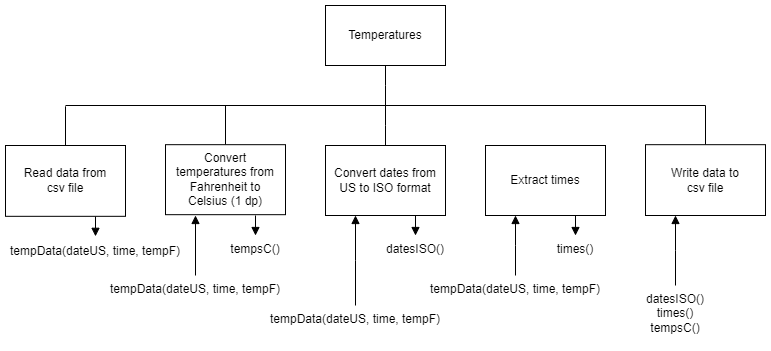
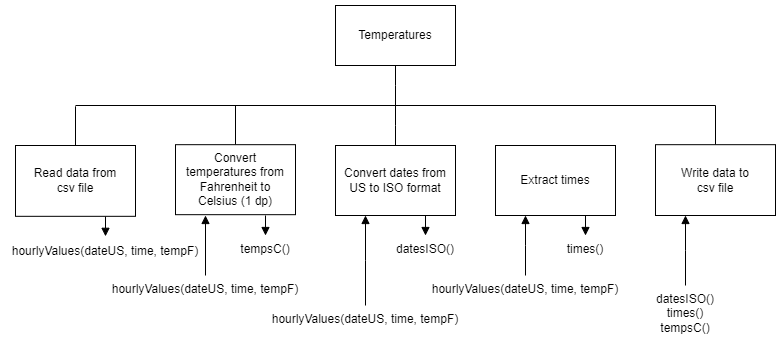
Updated

diff --git a/n5-cs/sdd/N5-SDD-TST/assets/solution.py b/n5-cs/sdd/N5-SDD-TST/assets/solution.py
@@ -1,6 +1,6 @@
 # Title: N5 SDD TST
 # Author: Mr Friend
-# Date: 24 Sep 2024
+# Date: 3 Sep 2024
 
 # Initalise variables
 noOfTours = 0
@@ -11,8 +11,13 @@ tourCosts = [0] * 4
 totalCost = 0
 averageCost = 0.0
 
+
+# Display header
+print("\n TST")
+print("-----\n")
+
 # Get valid number of tours
-while noOfTours <1 or noOfTours > 4:
+while noOfTours < 1 or noOfTours > 4:
     
     # Get number of tours
     noOfTours = int(input("Number of tours: "))
@@ -23,6 +28,7 @@ while noOfTours <1 or noOfTours > 4:
         # Error message
         print("\nInvalid:  Enter a value of 1 to 4")
 
+
 #Loop for each tour
 for index in range(noOfTours):
 
@@ -30,7 +36,7 @@ for index in range(noOfTours):
     while noOfPassengers < 1 or noOfPassengers > 5:
         
         # Get valid number of passengers
-        noOfPassengers = int(input("\nTour " +str(index+1) + " passengers: "))
+        noOfPassengers = int(input("\nNumber passengers on tour " +str(index+1) + ": "))
         
         # Check if valid
         if noOfPassengers < 1 or noOfPassengers > 5:
@@ -42,20 +48,20 @@ for index in range(noOfTours):
     for count in range(noOfPassengers):
     
         # Get valid passengers type
-        while passengerType != "adult" and  passengerType != "child":
+        while passengerType != "a" and  passengerType != "c":
             
             # Get passengers type
-            passengerType = input("Tour " +str(index+1)
-                                  + " passenger " + str(count+1) + ": ")
+            passengerType = input("Tour " + str(index+1)
+                                  + " passenger " + str(count+1) + " type: ")
             
             # Check if valid
-            if passengerType != "adult" and  passengerType != "child":
+            if passengerType != "a" and  passengerType != "c":
                 
                 # Error message
-                print("\nInvalid: Enter a value of 'adult' or 'child'")
+                print("\nInvalid: Enter a value of 'a' for addult or 'c' for child")
 
         # Is passenger an adult?
-        if passengerType == "adult":
+        if passengerType == "a":
             
             # Increase tour cost by £25
             tourCost = tourCost + 25
@@ -77,6 +83,7 @@ for index in range(noOfTours):
     # Reset noOfPassangers
     noOfPassengers = 0
 
+
 # Calculate total cost of tours
 for index in range(noOfTours):
     
@@ -92,7 +99,8 @@ average = round(average, 2)
 # Display header
 print("\nTours")
 print("-----\n")
-    
+
+
 # Display cost of tours
 for index in range(noOfTours):
     

diff --git a/h-cs/sdd/H-SDD-Temperature/README.md b/h-cs/sdd/H-SDD-Temperature/README.md
@@ -8,8 +8,6 @@ If a company has a problem with data, BDS intends to be the solution!
 
 The local heritage centre has some histrorical temperature records that it wishes to use.  There is a year's worth of temperature readings, hour by hour, in the file [tempF.csv](assets/tempF.csv "CSV file").  There are 8,759 readings in total.
 
-
-
 Unfortunately, the dates are in the US format, and all of the temperatures are in Fahrenheit.
 
 
@@ -36,7 +34,7 @@ C = (F - 32) * 5/9
 1. Read the data from a csv file: `tempF.csv`
 2. Convert the temperatures from Fahrenheit to Centigrade
 3. Convert the dates from US to ISO format
-5. Write the data to a csv file: `tempC.csv`
+4. Write the data to a csv file: `tempC.csv`
 
 
 ## Structure diagram
@@ -45,7 +43,6 @@ C = (F - 32) * 5/9
 
 
 ## Example Data
-
 
 ### tempF.csv
 
